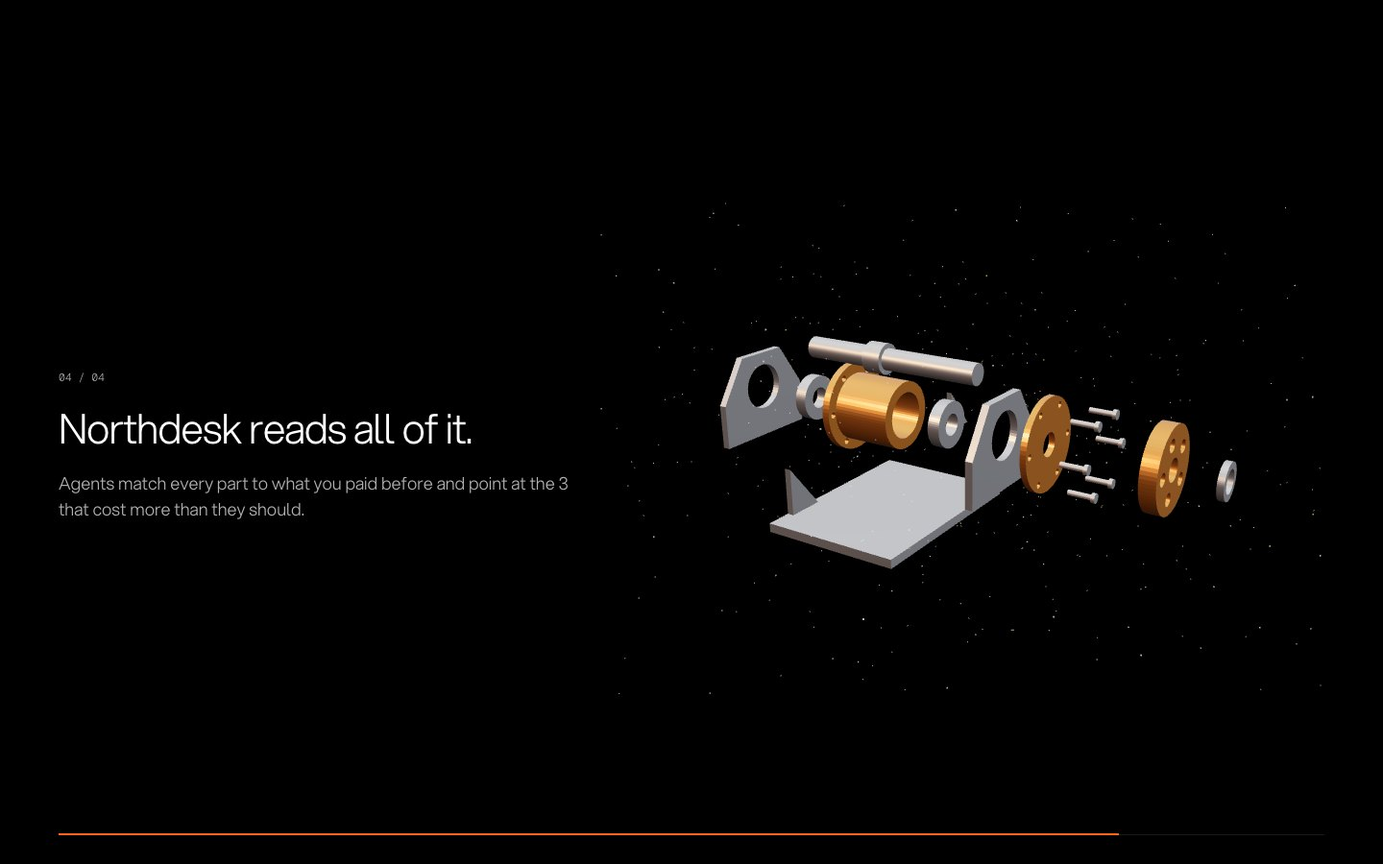
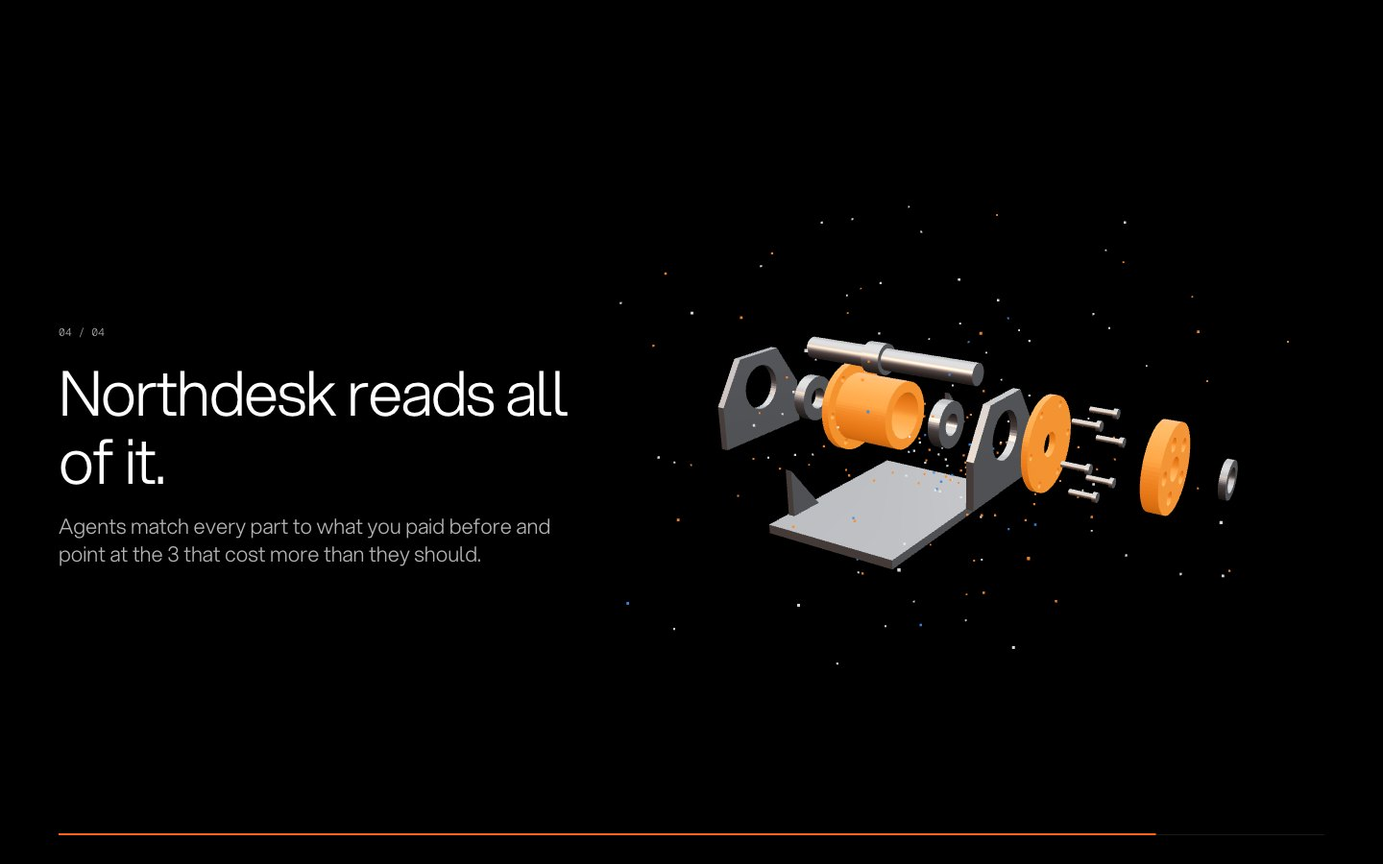
Scroll story and 3D look: closer to the originals
Scroll story, against Atoms & Bits:
- type at story scale: a giant word wider than the screen (tc-giant--bleed),
  chapter headlines at 68px, a number half the screen high (tc-figure--huge)
  on an orange section with grain
- the object is polished steel on black; the parts a chapter names glow in
  the brand orange instead of turning copper
- bits instead of dust: fewer, larger squares in orange, white and a little
  blue, most of them close to the object

3D look, against the part viewer in Tacto's product:
- metal: darker gunmetal with highlight bands from two studio lamps, a small
  contact shadow instead of a wide blob
- a status is a pale fill with the colour in the outline, like the product's
  chips, instead of a saturated block

Changed region(s): [[0.0312, 0.4356, 0.4062, 0.6533], [0.5, 0.4044, 0.9062, 0.6533], [0.5625, 0.5289, 0.5938, 0.6222]]

diff --git a/assets/tacto-3d.js b/assets/tacto-3d.js
@@ -26,7 +26,8 @@
   var REDUCE = !!(window.matchMedia && window.matchMedia('(prefers-reduced-motion: reduce)').matches);
   var SNAP = !!window.TC_SNAP;          /* set by scripts/shoot.sh for a picture: no easing, the end state at once */
   var INTRO = !REDUCE && !SNAP;         /* parts of an assembly arrive one after another */
-  var COL = { part: 0xcfd3d8, raw: 0xe4e6ea, edge: 0x3f3f46, same: 0xd0d3d9, exists: 0x4fc79a, near: 0xf2b755, 'new': 0x6f9ff0, format: 0xffffff, diff: 0xff6414, metal: 0x4b4f57, steel: 0xa9afb8 };
+  var COL = { part: 0xcfd3d8, raw: 0xe4e6ea, edge: 0x3f3f46, same: 0xdfe2e6, exists: 0xbfeeda, near: 0xfbe2a0, 'new': 0xc6dcfd, format: 0xffffff, diff: 0xff6414, metal: 0x4f545c, steel: 0xd3d7dc };
+  var EDGE = { same: 0x8a8f98, exists: 0x059669, near: 0xd97706, 'new': 0x2563eb, format: 0xa3a8b0 };   /* a status shows as a pale fill and a coloured outline */
   var SPIN = 0.0028, PI = Math.PI;
 
   /* ---------- solids. Millimetres. x to the right, y up, z towards the viewer.
@@ -184,18 +185,18 @@
     this.status = this.multi && host.getAttribute('data-status') !== 'false' && this.list.some(function (p) { return !!p.g; });
     var metal = this.metal = (host.getAttribute('data-look') || (this.status ? 'drawing' : 'metal')) === 'metal';
     if (metal) {            /* a studio to reflect: bright above, dim below, two soft lamps. Without it metal is just dark. */
-      this.r.outputEncoding = T.sRGBEncoding; this.r.toneMapping = T.ACESFilmicToneMapping; this.r.toneMappingExposure = dark ? 1.05 : 1.25;
+      this.r.outputEncoding = T.sRGBEncoding; this.r.toneMapping = T.ACESFilmicToneMapping; this.r.toneMappingExposure = dark ? 1.25 : 1.03;
       var ev = document.createElement('canvas'); ev.width = 256; ev.height = 128;
       var e2 = ev.getContext('2d'), sky = e2.createLinearGradient(0, 0, 0, 128);
-      sky.addColorStop(0, '#ffffff'); sky.addColorStop(0.45, dark ? '#8d9199' : '#c9ccd2'); sky.addColorStop(0.55, dark ? '#2a2c31' : '#6f737b'); sky.addColorStop(1, dark ? '#0a0a0b' : '#3a3d43');
+      sky.addColorStop(0, dark ? '#e6e8eb' : '#f4f5f6'); sky.addColorStop(0.42, dark ? '#868b93' : '#b9bdc4'); sky.addColorStop(0.58, dark ? '#24262a' : '#62666e'); sky.addColorStop(1, dark ? '#050506' : '#2c2e33');
       e2.fillStyle = sky; e2.fillRect(0, 0, 256, 128);
-      e2.fillStyle = '#ffffff'; e2.filter = 'blur(6px)'; e2.fillRect(28, 18, 54, 26); e2.fillRect(150, 26, 40, 20);
+      e2.fillStyle = '#ffffff'; e2.filter = 'blur(4px)'; e2.fillRect(22, 14, 70, 22); e2.fillRect(146, 22, 52, 16); e2.fillRect(108, 46, 20, 8);
       if (dark) { e2.fillStyle = '#ff6414'; e2.globalAlpha = 0.55; e2.fillRect(196, 70, 44, 16); e2.globalAlpha = 1; }   /* a little ember low behind */
       var et = new T.CanvasTexture(ev); et.mapping = T.EquirectangularReflectionMapping; et.encoding = T.sRGBEncoding;
       var pm = new T.PMREMGenerator(this.r); scene.environment = pm.fromEquirectangular(et).texture; et.dispose(); pm.dispose();
     }
-    scene.add(new T.HemisphereLight(0xffffff, dark ? 0x4a4e57 : 0xb2b7c0, metal ? 0.35 : (dark ? 0.72 : 0.82)));
-    this.sun = new T.DirectionalLight(0xffffff, metal ? 0.9 : 0.72); scene.add(this.sun);
+    scene.add(new T.HemisphereLight(0xffffff, dark ? 0x4a4e57 : 0xb2b7c0, metal ? 0.28 : (dark ? 0.72 : 0.82)));
+    this.sun = new T.DirectionalLight(0xffffff, metal ? 0.7 : 0.72); scene.add(this.sun);
     this.fill = new T.DirectionalLight(dark ? 0xff6414 : 0xffffff, dark ? 0.3 : 0.2); scene.add(this.fill);   /* on black, a little ember from behind */
     this.yaw = -0.62; this.pitch = this.multi ? 0.36 : 0.42; this.vy = 0; this.vp = 0;
     var view = (host.getAttribute('data-view') || '').split(',').map(Number);      /* data-view="yaw,pitch" in degrees: 0,0 is the front view */
@@ -243,11 +244,12 @@
       geos.forEach(function (g) { g.computeBoundingBox(); bb.union(g.boundingBox); });
       var home = bb.getCenter(new T.Vector3()); all.union(bb);
       var metal = self.metal, col = metal ? (dark ? COL.steel : COL.metal) : (self.status && COL[p.g] !== undefined ? COL[p.g] : (self.multi ? COL.same : COL.part));
-      var mat = new T.MeshStandardMaterial({ color: self.multi && INTRO && !metal ? COL.raw : col, roughness: metal ? 0.3 : 0.6, metalness: metal ? 0.78 : 0.08, transparent: true, opacity: self.multi && INTRO ? 0 : 1 });
-      var line = metal ? null : new T.LineBasicMaterial({ color: p.g === 'format' && self.status ? 0x8a8f98 : COL.edge, transparent: true, opacity: 0.5 });
+      var mat = new T.MeshStandardMaterial({ color: self.multi && INTRO && !metal ? COL.raw : col, roughness: metal ? (dark ? 0.2 : 0.3) : 0.6, metalness: metal ? (dark ? 0.9 : 0.62) : 0.08, transparent: true, opacity: self.multi && INTRO ? 0 : 1 });
+      var edge = self.status && EDGE[p.g] !== undefined ? EDGE[p.g] : COL.edge;
+      var line = metal ? null : new T.LineBasicMaterial({ color: edge, transparent: true, opacity: 0.5 });
       geos.forEach(function (g) { g.translate(-home.x, -home.y, -home.z); var m = new T.Mesh(g, mat); m.userData.i = i; grp.add(m); meshes.push(m); if (line) grp.add(new T.LineSegments(new T.EdgesGeometry(g, 28), line)); });
       grp.position.copy(home); self.root.add(grp);
-      units.push({ grp: grp, mat: mat, line: line, home: home, col: col, box: bb.clone(), vis: self.multi && INTRO ? 0 : 1 });
+      units.push({ grp: grp, mat: mat, line: line, home: home, col: col, edge: edge, metalness: mat.metalness, roughness: mat.roughness, box: bb.clone(), vis: self.multi && INTRO ? 0 : 1 });
     });
     var c = this.c = all.getCenter(new T.Vector3()), size = all.getSize(new T.Vector3());
     this.h = size.y; this.rad = size.length() / 2; this.floor = all.min.y;
@@ -268,19 +270,20 @@
       var cv = document.createElement('canvas'); cv.width = cv.height = 128;
       var g2 = cv.getContext('2d'), fade = g2.createRadialGradient(64, 64, 6, 64, 64, 64);
       fade.addColorStop(0, this.metal ? 'rgba(0,0,0,.2)' : 'rgba(0,0,0,.24)'); fade.addColorStop(1, 'rgba(0,0,0,0)'); g2.fillStyle = fade; g2.fillRect(0, 0, 128, 128);
-      var shade = new T.Mesh(new T.PlaneGeometry(size.x * 1.9 + size.z, size.z * 1.9 + size.x * 0.6), new T.MeshBasicMaterial({ map: new T.CanvasTexture(cv), transparent: true, depthWrite: false }));
+      var wide = this.metal ? 1.15 : 1.9;
+      var shade = new T.Mesh(new T.PlaneGeometry(size.x * wide + size.z * 0.6, size.z * wide + size.x * 0.4), new T.MeshBasicMaterial({ map: new T.CanvasTexture(cv), transparent: true, depthWrite: false }));
       shade.rotation.x = -PI / 2; shade.position.set(c.x, this.floor - size.y * (this.multi ? 0.002 : 0.16), c.z); this.scene.add(shade);
     }
     if (this.host.hasAttribute('data-dust')) {      /* small square specks, mostly white, a few orange and blue: the "bits" */
-      var n = 520, pos = new Float32Array(n * 3), cols = new Float32Array(n * 3), seed = 7, c3 = new T.Color(), i;
+      var n = 240, pos = new Float32Array(n * 3), cols = new Float32Array(n * 3), seed = 7, c3 = new T.Color(), i;
       var rnd = function () { seed = (seed * 16807) % 2147483647; return seed / 2147483647; };
       for (i = 0; i < n; i++) {
-        var a = rnd() * 2 * PI, b = Math.acos(2 * rnd() - 1), rr = this.rad2 * (0.35 + rnd() * 1.05);
+        var a = rnd() * 2 * PI, b = Math.acos(2 * rnd() - 1), rr = this.rad2 * (0.12 + Math.pow(rnd(), 1.8) * 1.15);
         pos[i * 3] = rr * Math.sin(b) * Math.cos(a); pos[i * 3 + 1] = rr * Math.cos(b) * 0.62; pos[i * 3 + 2] = rr * Math.sin(b) * Math.sin(a);
-        var pick = rnd(); c3.setHex(pick < 0.16 ? 0xff6414 : pick < 0.21 ? 0x2170ec : 0xffffff); cols[i * 3] = c3.r; cols[i * 3 + 1] = c3.g; cols[i * 3 + 2] = c3.b;
+        var pick = rnd(); c3.setHex(pick < 0.46 ? 0xff6414 : pick < 0.58 ? 0x2170ec : 0xffffff); if (this.metal) c3.convertSRGBToLinear(); cols[i * 3] = c3.r; cols[i * 3 + 1] = c3.g; cols[i * 3 + 2] = c3.b;
       }
       var dg = new T.BufferGeometry(); dg.setAttribute('position', new T.BufferAttribute(pos, 3)); dg.setAttribute('color', new T.BufferAttribute(cols, 3));
-      this.dust = new T.Points(dg, new T.PointsMaterial({ size: this.rad2 * 0.011, vertexColors: true, transparent: true, opacity: 0, depthWrite: false }));
+      this.dust = new T.Points(dg, new T.PointsMaterial({ size: this.rad2 * 0.024, vertexColors: true, transparent: true, opacity: 0, depthWrite: false }));
       this.scene.add(this.dust);
     }
     if (this.host.hasAttribute('data-grid')) { var grid = new T.GridHelper(Math.ceil(this.rad * 4 / 100) * 100, 26, dark ? 0x3a3a3a : 0xdcdcdc, dark ? 0x262626 : 0xeaeaea); grid.position.set(c.x, this.floor - 1, c.z); this.scene.add(grid); }
@@ -356,16 +359,18 @@
       u.grp.scale.setScalar(0.55 + 0.45 * u.vis);
       u.grp.position.set(u.home.x + u.out.x * self.ex, u.home.y + u.out.y * self.ex + (1 - u.vis) * self.h * 0.09, u.home.z + u.out.z * self.ex);
       var dim = self.only && p.g !== self.only, sel = !dim && (i === self.sel || i === self.hot);
-      tmp.setHex(self.hl && self.marks.indexOf(p.n) >= 0 ? COL.diff : (u.vis > 0.85 || self.metal ? u.col : COL.raw)); u.mat.color.lerp(tmp, k);
+      var lit = self.hl && self.marks.indexOf(p.n) >= 0;
+      tmp.setHex(lit ? COL.diff : (u.vis > 0.85 || self.metal ? u.col : COL.raw)); if (lit && self.metal) tmp.convertSRGBToLinear(); u.mat.color.lerp(tmp, k);
       u.mat.opacity += ((dim ? 0.045 : u.vis) - u.mat.opacity) * k; u.mat.depthWrite = u.mat.opacity > 0.5;
-      u.mat.emissive.setHex(sel ? (self.metal ? 0x3a2416 : 0x2a2a2a) : 0x000000);
-      if (u.line) { u.line.opacity = dim ? 0.05 : (sel ? 0.95 : 0.46) * u.vis; if (sel) u.line.color.setHex(0x0a0a0a); else u.line.color.setHex(p.g === 'format' && self.status ? 0x8a8f98 : COL.edge); }
+      u.mat.emissive.setHex(lit ? 0x8a2a00 : sel ? (self.metal ? 0x3a2416 : 0x2a2a2a) : 0x000000); u.mat.emissiveIntensity = lit ? 0.45 : 1;
+      u.mat.metalness = lit ? 0.15 : (self.metal ? u.metalness : 0.08); u.mat.roughness = lit ? 0.5 : u.roughness;
+      if (u.line) { u.line.opacity = dim ? 0.05 : (sel ? 0.95 : 0.46) * u.vis; u.line.color.setHex(sel ? 0x0a0a0a : u.edge); if (self.status && !dim && !sel && p.g !== 'same' && p.g !== 'format') u.line.opacity = 0.85 * u.vis; }
     });
     var e = this.ex, d = (this.dist + (this.dist2 - this.dist) * e) * (this.fit || 1), yaw = this.yaw + this.turn, cp = Math.cos(this.pitch);
     var lx = this.c.x + (this.c2.x - this.c.x) * e, ly = this.c.y + (this.c2.y - this.c.y) * e, lz = this.c.z + (this.c2.z - this.c.z) * e;
     this.cam.position.set(lx + d * Math.sin(yaw) * cp, ly + d * Math.sin(this.pitch), lz + d * Math.cos(yaw) * cp);
     this.cam.lookAt(lx, ly, lz);
-    if (this.dust) { this.dust.position.set(lx, ly, lz); this.dust.scale.setScalar(0.3 + 0.8 * e); this.dust.rotation.y = now * 0.00004; this.dust.material.opacity = Math.min(1, e * 1.3) * 0.8; }
+    if (this.dust) { this.dust.position.set(lx, ly, lz); this.dust.scale.setScalar(0.25 + 0.85 * e); this.dust.rotation.y = now * 0.00004; this.dust.material.opacity = Math.min(1, e * 1.4) * 0.92; }
     this.r.render(this.scene, this.cam);
     var settled = REDUCE || (!this.spinOn && Math.abs(this.vy) < 1e-5 && Math.abs(this.tex - this.ex) < 1e-4 && now - this.t0 > 3000 && !this.dragging);
     if (!settled || this.hot !== null) this.start(); else { var again = function () { self.start(); }; this.el.addEventListener('pointerdown', again, { once: true }); this.el.addEventListener('pointermove', again, { once: true }); }

diff --git a/assets/templates/scroll-story.html b/assets/templates/scroll-story.html
@@ -11,8 +11,8 @@
      prototype. Do NOT use it for dashboards, documents or decks, and keep it to ONE scene per page.
      Replace the sample company (Northdesk), the copy and every number.
      Parts, top to bottom:
-     hero on black with a 3D object that turns slowly (drag it, throw it) and a giant word that
-     crosses the screen · the scene: pinned for four screens, four chapters, the object comes apart
+     hero on black with a 3D object that turns slowly (drag it, throw it) and a giant word, wider
+     than the screen, that crosses it · the scene: pinned for four screens, four chapters, the object comes apart
      as you scroll and turns a little · a figure that swells as it arrives beside text that rises ·
      closing band · footer.
      With reduced motion, or without the scripts, the scene is an ordinary section: the chapters
@@ -78,7 +78,7 @@
       <div class="tc-part" data-tc-part="unit" data-status="false" data-theme="dark" aria-label="A bearing unit, turning slowly"></div>
     </div>
   </div>
-  <p class="tc-giant tc-cross ss-word" data-tc-progress aria-hidden="true">Parts <span class="tc-hl">&amp;</span> prices</p>
+  <p class="tc-giant tc-giant--bleed tc-cross ss-word" data-tc-progress aria-hidden="true">Parts <span class="tc-hl">&amp;</span> prices</p>
 </section>
 
 <!-- the scene. --tc-screens is how long it stays pinned (4 = four screens of scrolling, one per chapter).
@@ -91,23 +91,23 @@
     <div class="tc-scene__steps">
       <div class="tc-scene__step" data-tc-step>
         <span class="tc-scene__count">01 / 04</span>
-        <h2 class="tc-display">It ships as one unit.</h2>
-        <p class="tc-text-19 tc-muted">On the order it is a single line: bearing unit, complete. That is how it is bought and how it is priced.</p>
+        <h2 class="tc-title-68">It ships as one unit.</h2>
+        <p class="tc-title-23 tc-muted">On the order it is a single line: bearing unit, complete. That is how it is bought and how it is priced.</p>
       </div>
       <div class="tc-scene__step" data-tc-step>
         <span class="tc-scene__count">02 / 04</span>
-        <h2 class="tc-display">Inside are 18 parts.</h2>
-        <p class="tc-text-19 tc-muted">A housing, a shaft, two bearings, a gear, six screws and seven more. Each one was drawn by someone and bought from someone.</p>
+        <h2 class="tc-title-68">Inside are 18 parts.</h2>
+        <p class="tc-title-23 tc-muted">A housing, a shaft, two bearings, a gear, six screws and seven more. Each one was drawn by someone and bought from someone.</p>
       </div>
       <div class="tc-scene__step" data-tc-step>
         <span class="tc-scene__count">03 / 04</span>
-        <h2 class="tc-display">Each part has a history.</h2>
-        <p class="tc-text-19 tc-muted">What it cost last time, who made it, how long it took. Most of that sits in orders nobody reads twice.</p>
+        <h2 class="tc-title-68">Each part has a history.</h2>
+        <p class="tc-title-23 tc-muted">What it cost last time, who made it, how long it took. Most of that sits in orders nobody reads twice.</p>
       </div>
       <div class="tc-scene__step" data-tc-step>
         <span class="tc-scene__count">04 / 04</span>
-        <h2 class="tc-display">Northdesk reads all of it.</h2>
-        <p class="tc-text-19 tc-muted">Agents match every part to what you paid before and point at the 3 that cost more than they should.</p>
+        <h2 class="tc-title-68">Northdesk reads all of it.</h2>
+        <p class="tc-title-23 tc-muted">Agents match every part to what you paid before and point at the 3 that cost more than they should.</p>
       </div>
     </div>
     <div class="tc-part" data-tc-part="unit" data-status="false" data-theme="dark" data-explode="scroll" data-turn="-0.5" data-dust data-highlight="Housing|Gear|Cover" data-highlight-from="0.76" aria-label="The bearing unit, taken apart into its 18 parts"></div>
@@ -120,11 +120,11 @@
 <section class="tc-section tc-section--orange">
   <div class="tc-container">
     <div class="tc-grid" style="align-items: end;">
-      <div class="tc-figure tc-swell ss-figure" style="grid-column: span 6;" data-tc-progress>
+      <div class="tc-figure tc-figure--huge tc-swell ss-figure" style="grid-column: span 7;" data-tc-progress>
         <b>38%</b>
         <span>of this unit's cost sits in the 3 parts the agents pointed at.</span>
       </div>
-      <div class="tc-stack ss-figure" style="grid-column: span 6;">
+      <div class="tc-stack ss-figure" style="grid-column: span 5;">
         <h2 class="tc-title-30 tc-reveal">Take it apart before you negotiate.</h2>
         <p class="tc-text-19 tc-muted tc-reveal">A buyer who knows which three parts carry the price asks a different question. Northdesk shows them for every assembly you buy, with the orders they come from.</p>
       </div>

diff --git a/assets/tacto.css b/assets/tacto.css
@@ -1243,8 +1243,12 @@ a.tc-card:hover { opacity: 0.6; }
 .tc-scene--black .tc-muted, .tc-scene--black .tc-dim { color: #ffffffb3; }
 .tc-nav { transition: opacity var(--tc-fast); }
 .tc-in-scene .tc-nav { opacity: 0; pointer-events: none; }
-/* one full orange section, straight after a black scene: black type on flat orange */
-.tc-section--orange { background: var(--tc-orange); color: var(--tc-black); }
+/* one full orange section, straight after a black scene: black type on orange with a little grain */
+.tc-section--orange { background: var(--tc-orange); color: var(--tc-black); isolation: isolate; }
+.tc-section--orange::before { content: ""; position: absolute; inset: 0; background-image: var(--tc-grain-dark); background-size: 200px 200px; opacity: 0.28; pointer-events: none; z-index: -1; }
+/* type at the scale of a story page: a word wider than the screen, a number half the screen high */
+.tc-giant--bleed { font-size: 19vw; line-height: 0.86; letter-spacing: -0.02em; white-space: nowrap; }
+.tc-figure--huge > b { font-size: min(44vh, 30vw); line-height: 0.86; letter-spacing: -0.03em; }
 .tc-section--orange .tc-muted, .tc-section--orange .tc-dim { color: #000000b3; }
 .tc-moving [data-tc-scene] { height: calc(var(--tc-screens, 3) * 100vh); }
 .tc-moving .tc-scene__stage { position: sticky; top: 0; height: 100vh; padding-top: 6rem; padding-bottom: 4rem; overflow: clip; }

diff --git a/scripts/tacto_check.py b/scripts/tacto_check.py
@@ -131,7 +131,7 @@ window.addEventListener('load', function () { setTimeout(function () {
       else if ((hidY && dy > 3) || (hidX && dx > 3)) add('error', 'fit', 'content is cut inside ' + name(el) + ' (' + Math.max(dy, dx) + 'px hidden)');
     }
     var own = false; for (var tn = el.firstChild; tn; tn = tn.nextSibling) if (tn.nodeType === 3 && tn.nodeValue.trim()) { own = true; break; }
-    if (own && cs.overflowX === 'visible' && cs.display.indexOf('inline') !== 0 && el.clientWidth > 0 && el.scrollWidth - el.clientWidth > 2 && !el.closest('.tc-rail, .tc-marquee'))
+    if (own && cs.overflowX === 'visible' && cs.display.indexOf('inline') !== 0 && el.clientWidth > 0 && el.scrollWidth - el.clientWidth > 2 && !el.closest('.tc-rail, .tc-marquee, .tc-giant--bleed'))
       add('error', 'fit', 'text is ' + (el.scrollWidth - el.clientWidth) + 'px wider than its box and runs into what is next to it: ' + name(el) + ' (shorten it, or use fewer columns)');
     if (/auto|scroll/.test(cs.overflowX) && el.scrollWidth - el.clientWidth > 4 && !/tc-rail|tc-app__tabs/.test(cl))
       add('warn', 'fit', (el.scrollWidth - el.clientWidth) + 'px of ' + name(el).split('"')[0] + 'is off-screen at ' + vw + 'px: a screenshot or PDF will not show it (fewer columns, or class tc-app__tablewrap--wrap)');

diff --git a/references/3d.md b/references/3d.md
@@ -42,11 +42,11 @@ There are two looks. The script picks one; `data-look` forces the other.
 |---|---|---|
 | When | a single part; an assembly without status colours; anything on a web page | an assembly that shows status colours (picked automatically), or `data-look="drawing"` |
 | Where it comes from | the Geometry card in Tacto's product: a dark part you rotate to inspect | the engineering-drawing look: pale solids with every edge drawn |
-| Surface | gunmetal `#4B4F57`, glossy (roughness 0.3, metalness 0.78), reflecting a soft studio | pale grey `#CFD3D8`, matt, or the status colour |
-| Edges | none: the form is read from light and reflection | thin lines, `#3F3F46` at about half strength |
-| On black (`data-theme="dark"`) | brighter steel `#A9AFB8`, a little ember reflected from behind, no floor shadow | same pale parts, no floor shadow |
+| Surface | dark gunmetal, glossy, reflecting a soft studio with two lamps, so round forms get light bands | pale grey `#CFD3D8`, matt; with a status, a pale tint of its colour |
+| Edges | none: the form is read from light and reflection | thin lines, `#3F3F46` at about half strength; with a status, the lines carry the colour |
+| On black (`data-theme="dark"`) | polished steel, bright against the black, a little ember reflected from behind, no floor shadow | same pale parts, no floor shadow |
 
-Common to both: sky light from above with one sun and one weak fill; a soft round shadow on the floor (`data-grid` adds a pale grid for an assembly); no background of its own, so the white card or the panel behind it shows through; the selected part glows slightly. No textures, no chrome mirror, no glass, no coloured parts outside the status colours.
+Common to both: sky light from above with one sun and one weak fill; a small soft shadow where the part meets the floor (`data-grid` adds a pale grid for an assembly); no background of its own, so the white card or the panel behind it shows through; the selected part glows slightly. No textures, no chrome mirror, no glass, no coloured parts outside the status colours.
 
 ## Parts that ship
 
@@ -114,8 +114,8 @@ For a row of parts on one axis (a shaft with what sits on it), give every part a
 | Exploded view, by button | `<button data-tc-explode="#id" aria-pressed="false">`. Eases apart and back. |
 | Exploded view, fixed | `data-explode="0.6"` (0 closed, 1 fully apart) |
 | Comes apart with the page | `data-explode="scroll"` inside a scroll scene (`references/motion.md`). `data-explode-range="0.15,0.7"`: the part of the scene over which it opens. `data-turn="-0.5"`: radians it turns across the scene. Turn it towards the side of the axis it opens along, never onto the axis: seen end-on, an exploded row hides itself. |
-| Show which parts are meant | `data-highlight="Housing|Gear"` turns the named parts orange. With `data-explode="scroll"`, `data-highlight-from="0.76"` does it only from that point of the scene on. From script: `el.tcPart.highlight(["Housing"])`. |
-| Specks that spread as it opens | `data-dust`: for the one story object of a page on black, nowhere else. Never in the product screen. |
+| Show which parts are meant | `data-highlight="Housing|Gear"` makes the named parts glow in the brand orange. With `data-explode="scroll"`, `data-highlight-from="0.76"` does it only from that point of the scene on. From script: `el.tcPart.highlight(["Housing"])`. |
+| Bits that spread as it opens | `data-dust`: small squares in orange, white and a little blue, most of them close to the object. For the one story object of a page on black, nowhere else. Never in the product screen. |
 | Point at a part | assembly parts with a name show it in a small tip |
 | Click a part | the element fires `tc:pick` with `detail: { index, name, status }`. Show what you know about that part next to the model. |
 | From script | `el.tcPart.explode(0..1 or true/false)`, `.spin(bool)`, `.filter("new" or null)`, `.pick(i or null)` |
@@ -126,13 +126,15 @@ Parts of an assembly arrive one after another when the model first appears. That
 
 In an assembly a part can carry a status, and the colour says what is known about it. With status colours the model switches to the drawing look, because colour needs a pale ground. These are the product screen's own colours, so use them inside `.tc-app` only; on a web page set `data-status="false"` and the assembly is metal.
 
-| Status `g` | Colour | Means |
+A status is shown the way the product shows a chip: a pale fill and the colour in the outline. Never a solid saturated block.
+
+| Status `g` | Fill and outline | Means |
 |---|---|---|
-| `same` | grey | carried over, nothing to decide |
-| `exists` | green | exists already under another number |
-| `near` | amber | nearly the same as an existing part |
-| `new` | blue | new |
-| `format` | white | set aside, not checked |
+| `same` | pale grey, grey lines | carried over, nothing to decide |
+| `exists` | pale green, green lines | exists already under another number |
+| `near` | pale amber, amber lines | nearly the same as an existing part |
+| `new` | pale blue, blue lines | new |
+| `format` | white, grey lines | set aside, not checked |
 
 Give the model its keys, with counts, as filter buttons:
 

diff --git a/references/motion.md b/references/motion.md
@@ -42,8 +42,8 @@ What the Atoms & Bits page does, and what `assets/tacto-scroll.js` and `assets/t
 | A pinned stage with chapters | the stage stays while "Atoms", "Bits", "Connect", "Explore" follow each other | `data-tc-scene` with `data-tc-step` chapters |
 | One object carries the story | a metal star turns, breaks into pieces and comes back | a `tc-part` with `data-explode="scroll"`: it comes apart as the scene advances |
 | A pinned list | the speaker names stay, the current one is orange | `tc-scene__list` |
-| Giant type that drifts | "Atoms & Bits" crosses the first screen | `tc-giant tc-cross` with `data-tc-progress` |
-| A huge number arriving | "25%" fills the screen | `tc-figure tc-swell` with `data-tc-progress` |
+| Giant type that drifts | "Atoms & Bits" crosses the first screen, wider than the screen | `tc-giant tc-giant--bleed tc-cross` with `data-tc-progress`, inside a section with `data-tc-crop` |
+| A huge number arriving | "25%" fills half the screen | `tc-figure tc-figure--huge tc-swell` with `data-tc-progress` |
 | Background that moves slower | the machined-metal picture behind the agenda | `tc-drift` with `data-tc-progress` |
 | Text | rises 24px and fades, once | `tc-reveal`, as everywhere |
 
@@ -74,8 +74,8 @@ And then:
     <div class="tc-scene__steps">
       <div class="tc-scene__step" data-tc-step>
         <span class="tc-scene__count">01 / 04</span>
-        <h2 class="tc-display">It ships as one unit.</h2>
-        <p class="tc-text-19 tc-muted">Two lines that say what the reader is looking at.</p>
+        <h2 class="tc-title-68">It ships as one unit.</h2>
+        <p class="tc-title-23 tc-muted">Two lines that say what the reader is looking at.</p>
       </div>
       <!-- three more steps -->
     </div>
@@ -91,8 +91,8 @@ And then:
 - The script sets `--p` (0 to 1) on the scene and `.is-active` on the current step. Anything else you want to tie to the scene can read `--p` in CSS (`transform: scale(calc(1 + var(--p) * 0.2))`) or listen to the scene's `tc:progress` event.
 - `tc-scene__bar` is the thin orange line that shows how far the scene has come.
 - While a scene holds the screen the nav fades out, so the stage is clear. It comes back when the scene ends.
-- On the object: `data-dust` lets fine specks (white, a few orange and blue) spread as it comes apart, which is the Atoms & Bits feeling of something dissolving into bits. `data-highlight="Housing|Gear|Cover"` with `data-highlight-from="0.76"` turns the named parts orange from that point on: when the last chapter says "the three that cost too much", the picture must show which three.
-- Chapter headlines are large (`tc-display`) and white; the two lines under them are lighter, not smaller.
+- On the object: `data-dust` lets small square bits (orange, white, a little blue) spread around it as it comes apart, which is the Atoms & Bits feeling of something dissolving into bits. `data-highlight="Housing|Gear|Cover"` with `data-highlight-from="0.76"` turns the named parts orange from that point on: when the last chapter says "the three that cost too much", the picture must show which three.
+- Type is at the scale of a story, not of a product page: chapter headlines in `tc-title-68`, the two lines under them in `tc-title-23` and lighter, the one giant word wider than the screen, the one number half the screen high. Use these sizes on a story page only.
 - After a black scene, one flat orange section (`tc-section--orange`, black type) is the strongest change of key the page has. Use it once, for the one number or sentence the story was leading to.
 - `tc-scene--black` for a scene on black. On the grey page leave it off and drop `data-theme="dark"`.
 - Things outside a scene that should move with the page get `data-tc-progress` and one of `tc-drift`, `tc-cross`, `tc-swell`.
